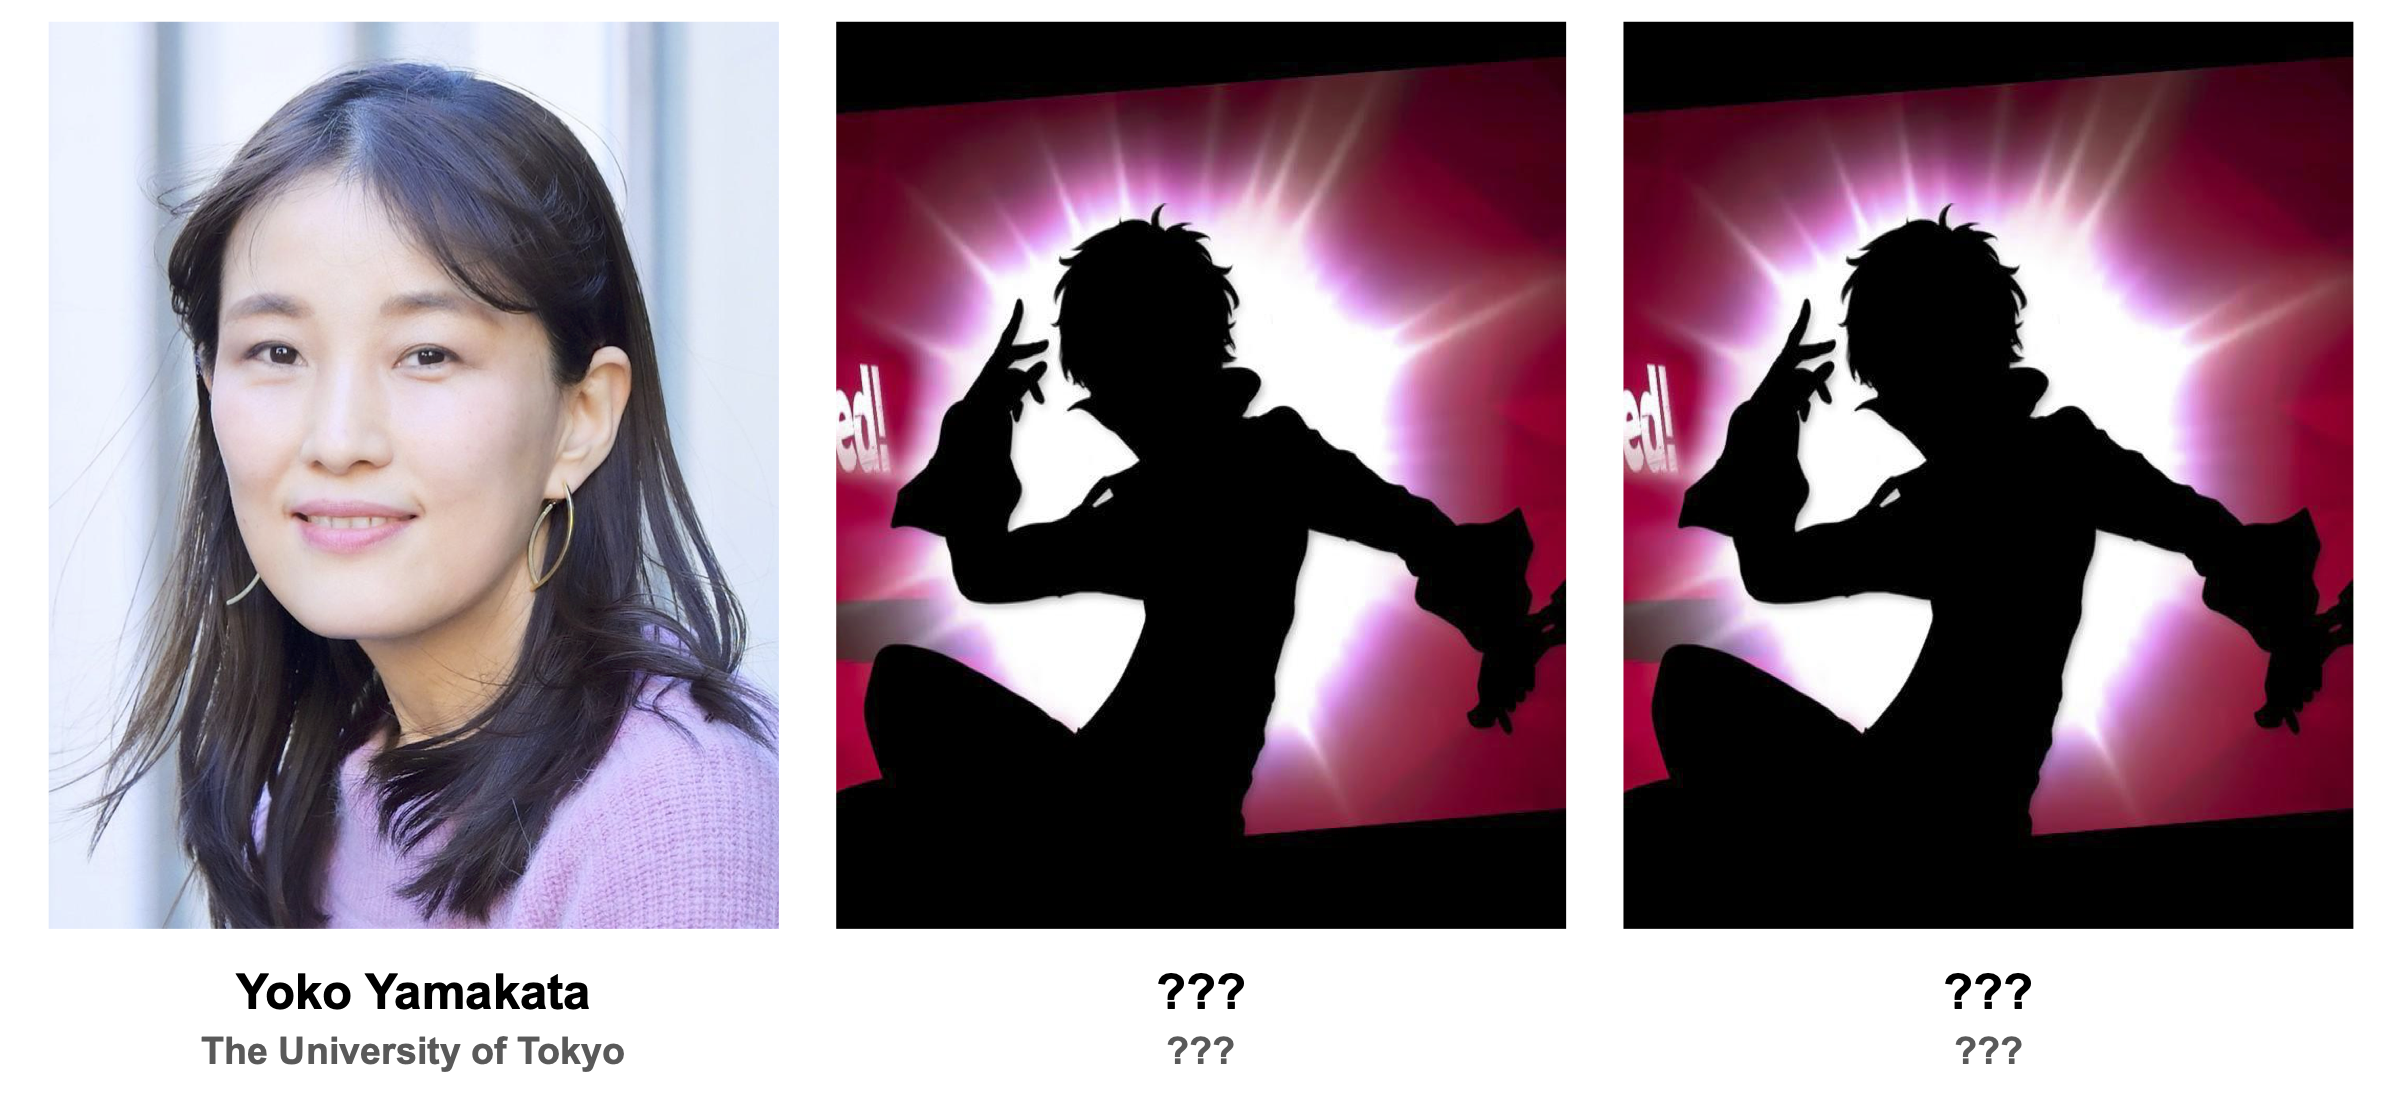
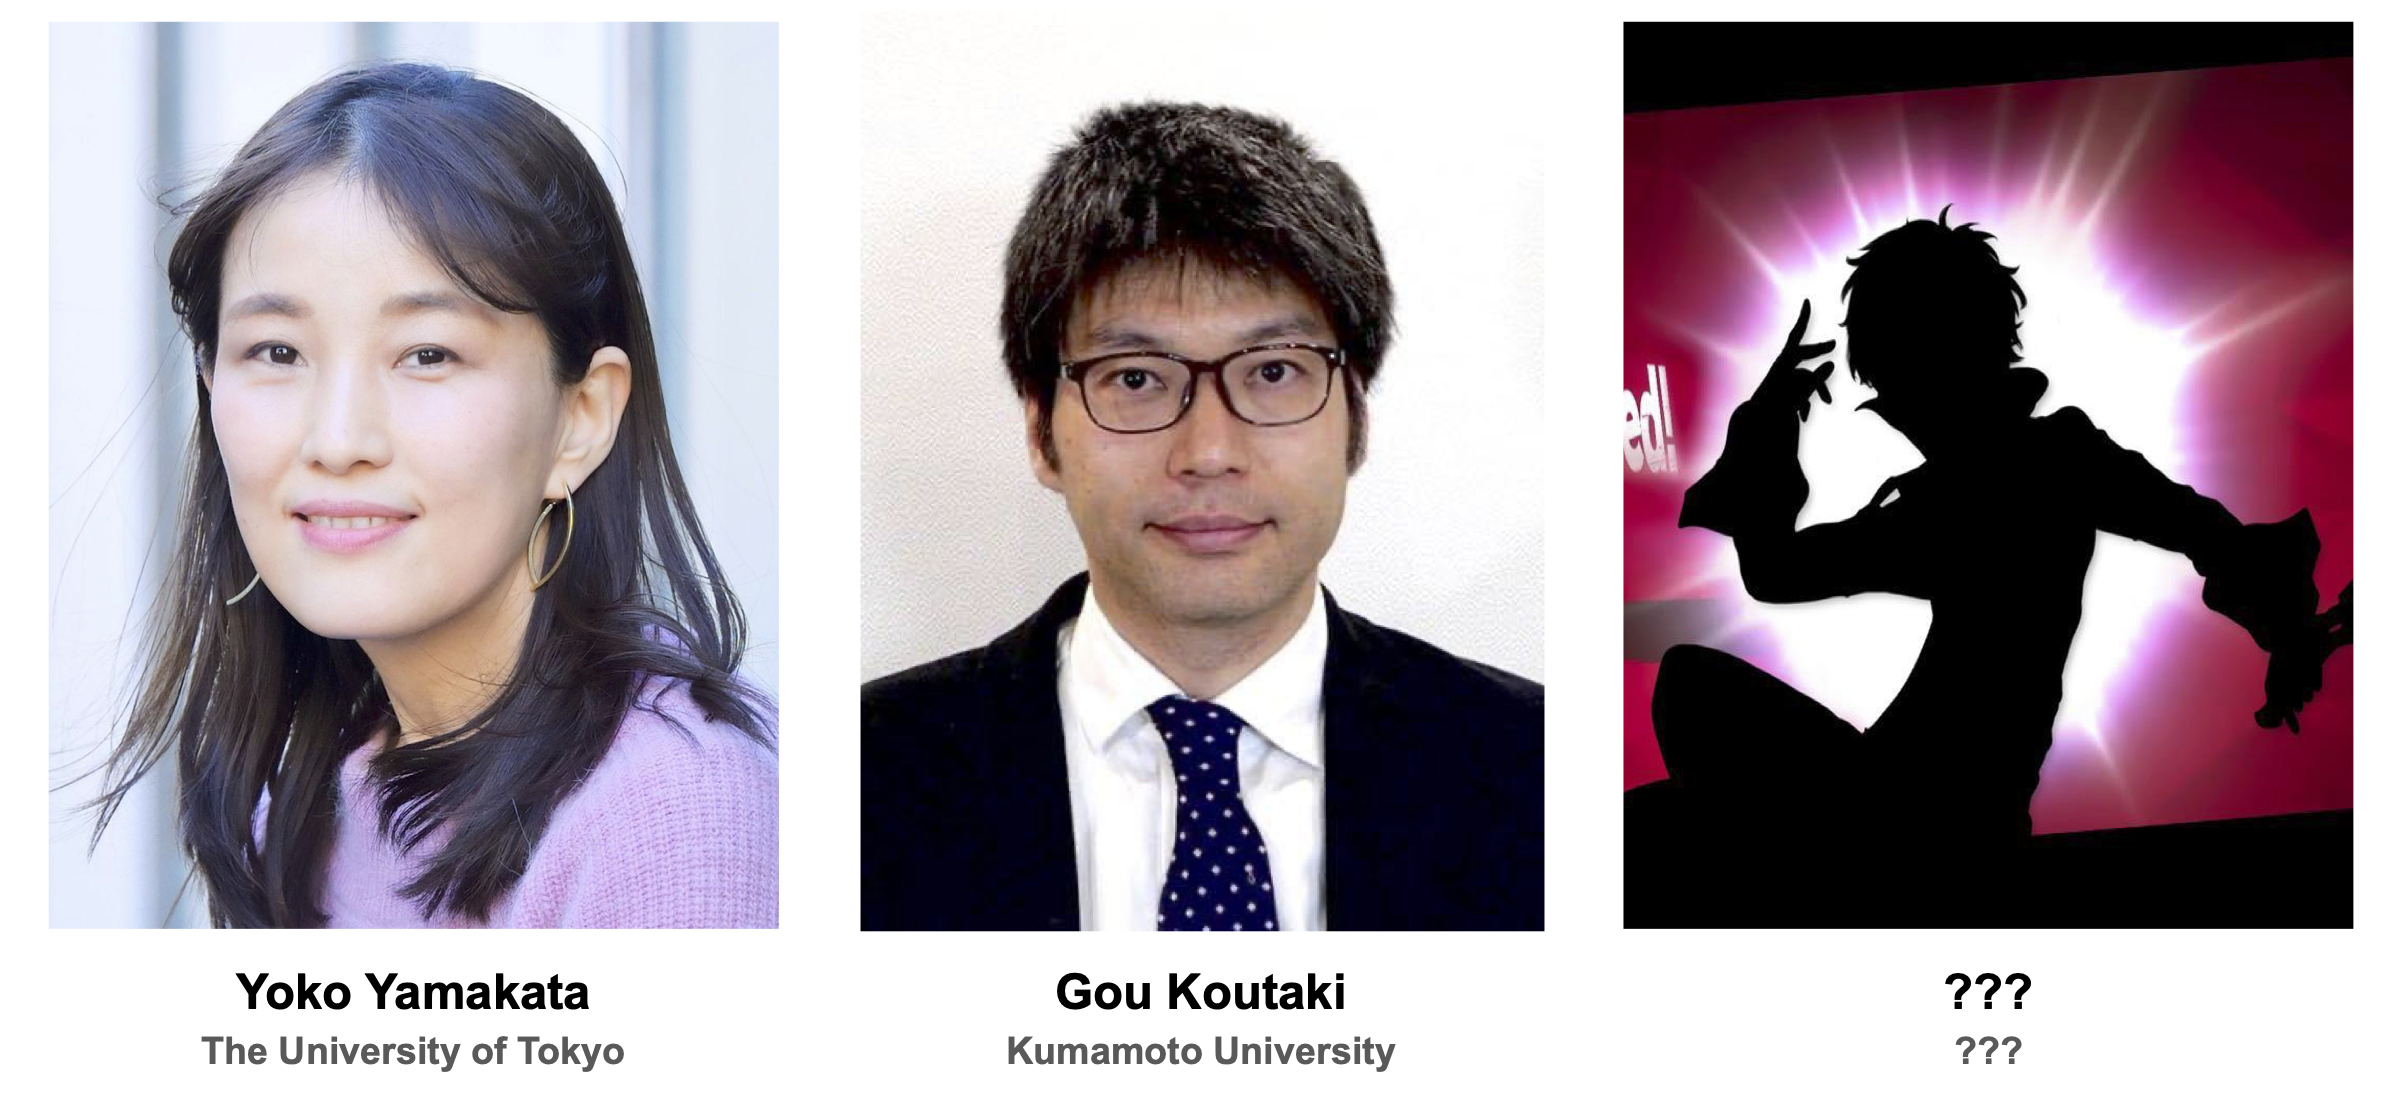
Update

Changed region(s): [[0.3438, 0.0, 0.6562, 0.8438], [0.4062, 0.875, 0.5938, 0.9688]]

diff --git a/index_JP.md b/index_JP.md
@@ -9,22 +9,24 @@
 
 ワークライフバランス・ワークショップは、研究者がウェルビーイングを後回しにせず、意味のある生産的で持続可能なキャリアを築く方法について考える場です。実践的な戦略、経験の共有、研究文化、境界線、コラボレーション、メンタリング、長期的な専門的健康についてのオープンな議論を提供します。
 
-## パネリスト (敬称略)
+## パネリスト
 ![panelists](/images/MIRU2026_WLB_Panelists_JP.png)
 
-## 目的
+## プログラム（予定）
 
-## トピック
+日程：2026年8月6日（木） ランチブレイク（11:30-13:00）
 
-## スケジュール
+会場：未定
 
-## 主催者 (敬称略)
+部屋：未定
+
+11:30-11:45 オープニング + ケーススタディ発表
+
+11:45-12:15 グループディスカッションとアイデア発表
+
+12:15-12:55 パネルディスカッション
+
+12:55-13:00 クロージング
+
+## 主催者
 ![workshop organizers](/images/MIRU2026_WLB_Organizers_JP.png)
-
-## 重要日程
-
-## よくある質問
-
-## 協賛
-
-## 謝辞

diff --git a/index.md b/index.md
@@ -12,19 +12,21 @@ The Work Life Balance workshop is a space for researchers to reflect on how to b
 ## Panelists
 ![panelists](/images/MIRU2026_WLB_Panelists.png)
 
-## Objectives
+## Program (Tentative)
 
-## Topics Covered
+Date: August 6th, 2026, Lunch break (11:30-13:00)
 
-## Schedule
+Location: TBD
+
+Room: TBD
+
+11:30-11:45 Opening + Case study presentation
+
+11:45-12:15 Group discussion and idea presentation
+
+12:15-12:55 Panel discussion
+
+12:55-13:00 Conclusion
 
 ## Organizers
 ![workshop organizers](/images/MIRU2026_WLB_Organizers.png)
-
-## Important Dates
-
-## FAQs
-
-## Supported by
-
-## Acknowledgments
